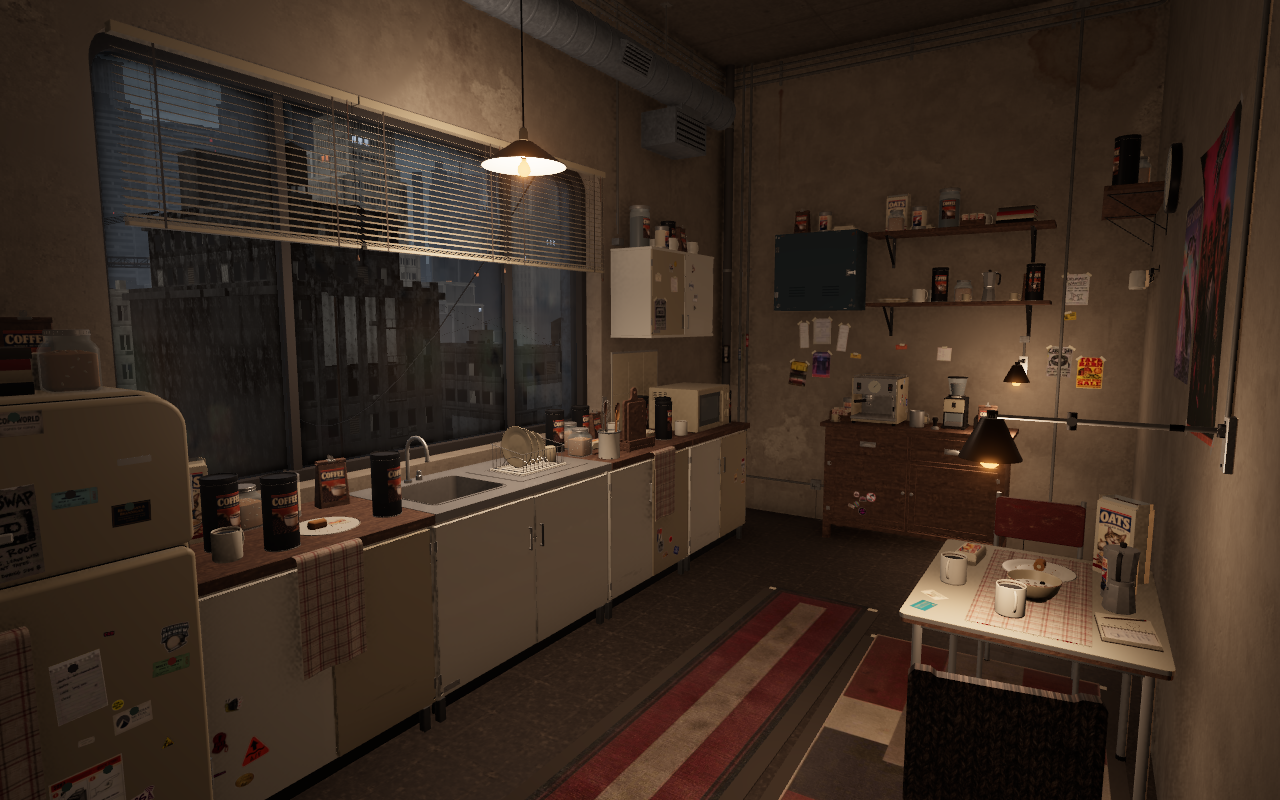
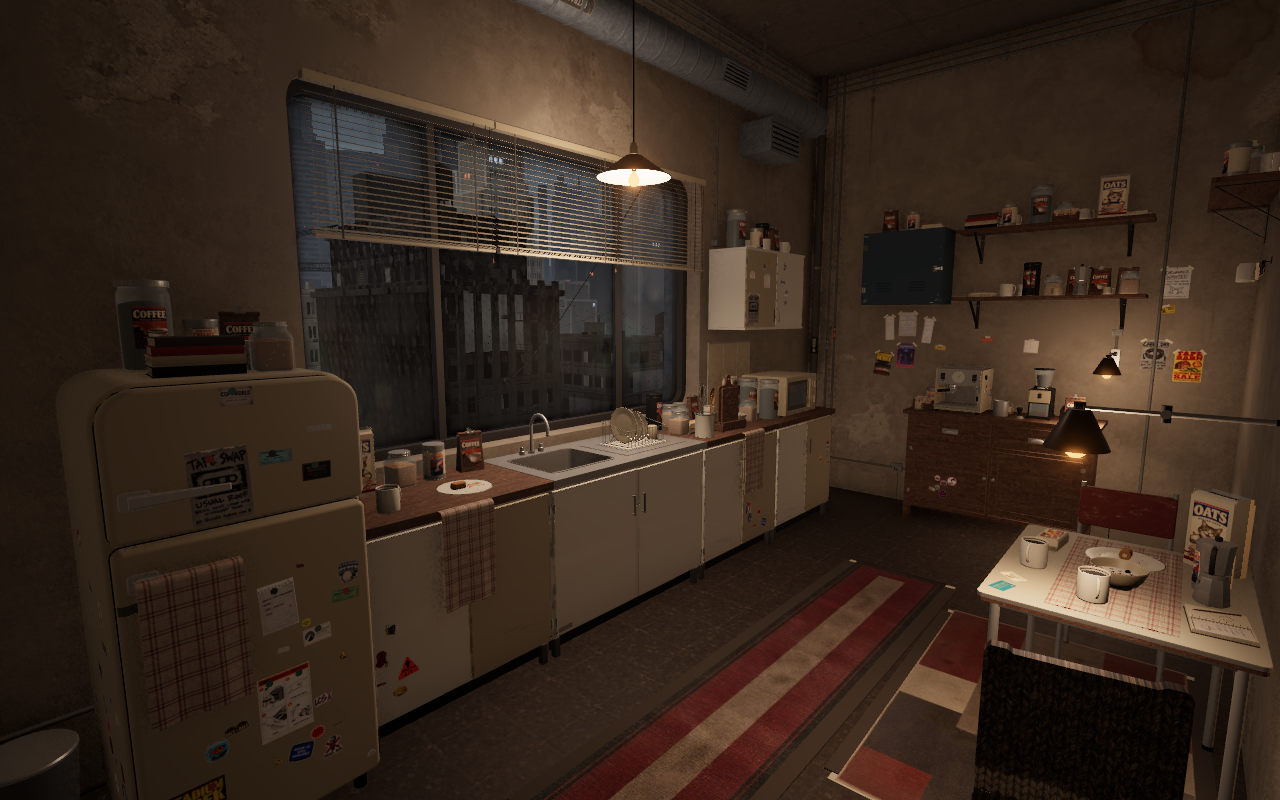
Show the varied kitchen pantry beside its approved target

diff --git a/concepts/kitchen-comfort-2026-10-09/index.html b/concepts/kitchen-comfort-2026-10-09/index.html
@@ -26,7 +26,7 @@
   <p>Vibe collected and repaired this room herself. These concepts add places to settle in, useful rescued storage, illustrated pantry packs and traces of two girls sharing their daily life.</p>
   <p class="hint">Placement rule for every direction: furnishings find suitable walls and floor space; loose items choose compatible worktops, dining surfaces, shelves and hooks. Changing the room layout must repack them onto the available surfaces. The pictures describe the mood and useful groups, rather than fixed object coordinates.</p>
   <div class="notice">
-    <p><strong>Matching the approved coffee hangout.</strong> The reference below is the target. Fuller storage, larger wall art, personal papers, faded plaid and repaired furniture are in the actual room. Standing boards, a utensil crock and sixteen taller reused tins are finished. The seats sit closer to the working counter, with a loose knitted throw, worn fridge edges and faint lower cupboard scuffs. The latest layout raises the pantry shelves and blue locker, separates the shaded task lights and adds three tall reused coffee canisters to suitable storage surfaces. Their hollow glass, dry grounds, rolled screw caps and curved illustrated labels are now finished, using the existing textures.</p>
+    <p><strong>Matching the approved coffee hangout.</strong> The reference below is the target. Fuller storage, larger wall art, personal papers, faded plaid and repaired furniture are in the actual room. Standing boards and a utensil crock join the preparation counter. The seats sit closer to it, with a loose knitted throw, worn fridge edges and faint cupboard scuffs. The latest pass varies the pantry stock: eleven repeated tins are replaced with glass jars, oats, creamer, coffee bags and empty mugs. The upper oat carton now shows its illustration at the front of the shelf. Five tall tins and five finished glass coffee canisters remain, using the existing textures.</p>
     <p class="hint">Only shelf-stable food and drinks: oats, coffee, powdered non-dairy creamer, sugar and long-life cakes. No plants. Loose items choose compatible surfaces and reshuffle after furniture edits. The cloth shares the existing atlas, with unchanged GPU memory.</p>
     <p><a href="https://lcs-rooms.up.railway.app/?t=19">Open the live kitchen</a> · <a href="../../props/?item=coffee-glass-canister">Inspect the catalog models</a></p>
   </div>
@@ -41,8 +41,8 @@
     <h2>Reference and current 3D progress</h2>
     <p>The room is being judged against this picture. Finished asset counts and the automatic comfort score do not measure the visual match.</p>
     <figure><a href="approved-target.png"><img src="approved-target.png" alt="Approved makeshift coffee kitchen reference with crowded pantry shelves, plaid towels, a knitted chair drape, personal papers and warm shaded lamps." width="1280" height="800" fetchpriority="high"></a><figcaption>Approved target · generated concept art.</figcaption></figure>
-    <figure><a href="progress-a.png?v=874f88d"><img src="progress-a.png?v=874f88d" alt="Current native 3D kitchen with raised pantry storage, separated warm task lights, personal papers, plaid towels and a loose knitted chair throw." width="1280" height="800" loading="lazy"></a><figcaption>Current 3D implementation · entrance view · higher pantry storage, separated warm task lights and three finished glass coffee canisters.</figcaption></figure>
-    <figure><a href="progress-b.png?v=874f88d"><img src="progress-b.png?v=874f88d" alt="Current opposing native 3D kitchen view with illustrated pantry supplies, a shaded table lamp, plaid runner and repaired mismatched chairs." width="1280" height="800" loading="lazy"></a><figcaption>Current 3D implementation · opposing view.</figcaption></figure>
+    <figure><a href="progress-a.png?v=1ca8d80"><img src="progress-a.png?v=1ca8d80" alt="Current native 3D kitchen with varied glass jars, oats, creamer, coffee bags and empty mugs, warm task lights, plaid towels and a loose knitted chair throw." width="1280" height="800" loading="lazy"></a><figcaption>Current 3D implementation · entrance view · varied pantry stock and clearer illustrated oat packaging.</figcaption></figure>
+    <figure><a href="progress-b.png?v=1ca8d80"><img src="progress-b.png?v=1ca8d80" alt="Current opposing native 3D kitchen view with illustrated pantry supplies, a shaded table lamp, plaid runner and repaired mismatched chairs." width="1280" height="800" loading="lazy"></a><figcaption>Current 3D implementation · opposing view.</figcaption></figure>
     <p class="hint">The actual room keeps its existing proportions and city. Its light is harder and its broad enamel faces more uniform than the generated reference. Native pictures at noon, dusk and night have a clear doorway, no waiting surface inventory and no missing prop models.</p>
   </section>
   <section id="details">
